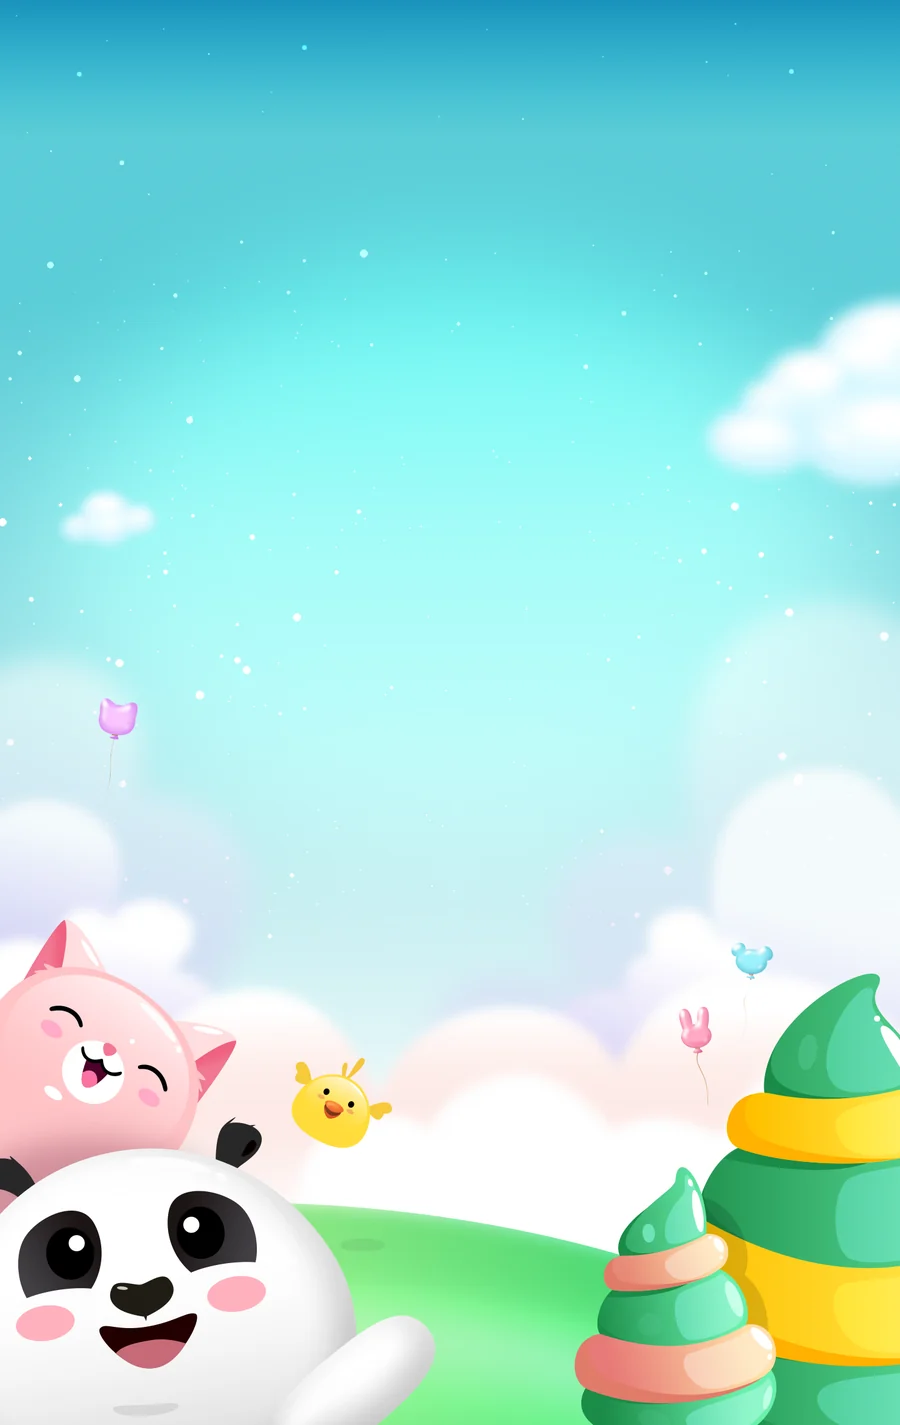
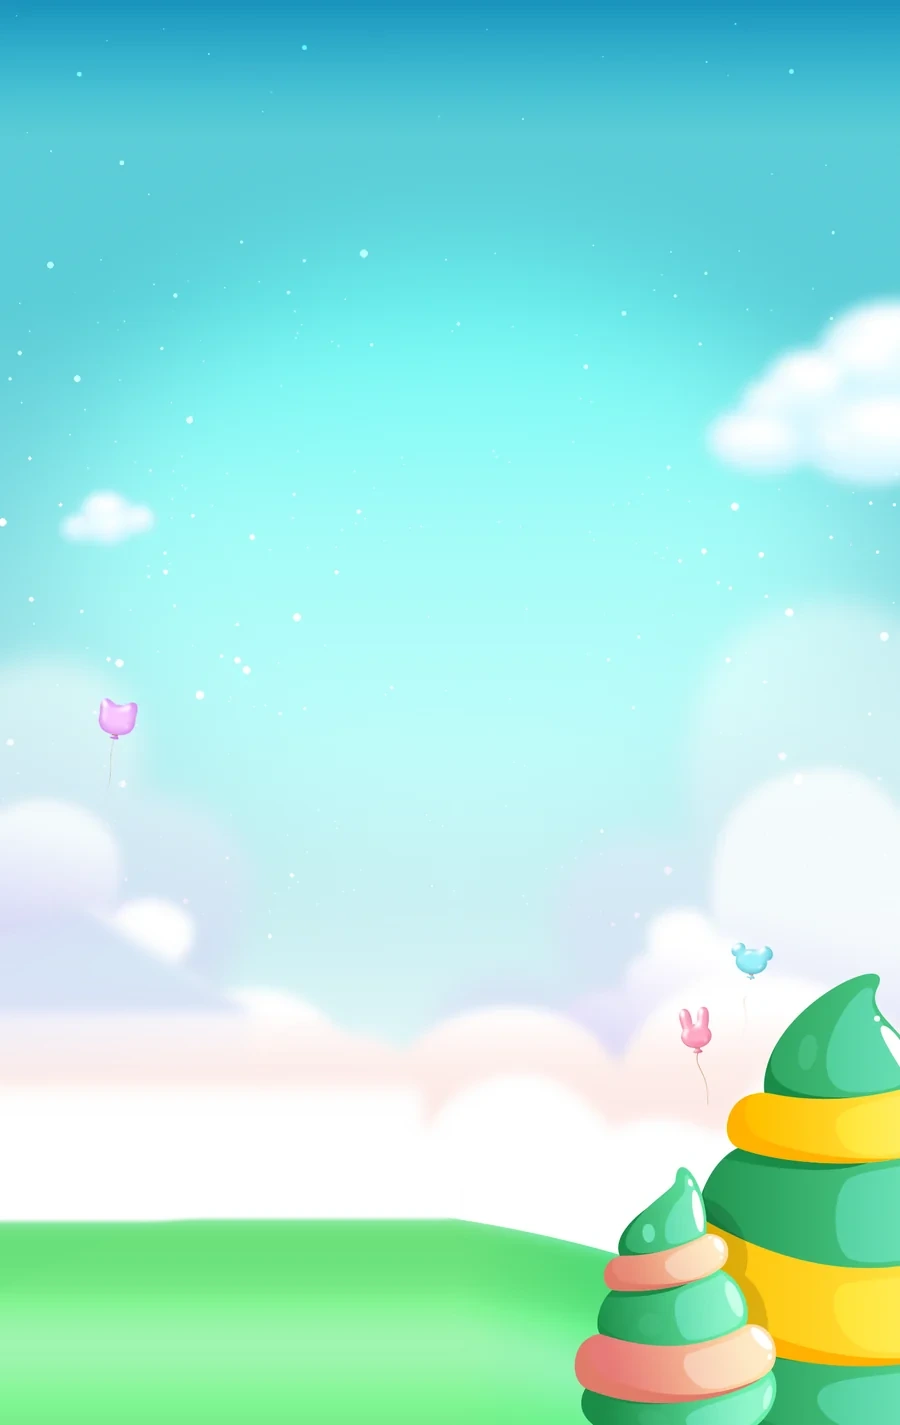
feat(home): remove foreign animals from the home art, add Map button, back button top-left
- home-bg.webp: paint out the pink cat, panda and chick (not characters of this game)
  and continue the clouds / grass hill behind them; trees and balloons are untouched.
- Home: new "Map" button under Play that opens the stage map; the Settings / Missions /
  Shop bubbles move down to make room for it.
- Stage (levels) screen: Back button moves from the bottom footer to the top-left
  of the top bar, like the map and game screens.
- Top bars are always laid out left-to-right so Back is top-left in the fa (RTL)
  edition too; the back arrow is no longer mirrored in RTL.

Changed region(s): [[0.0, 0.6175, 0.4978, 1.0], [0.4044, 0.7102, 0.4356, 0.7411]]

diff --git a/src/screens/Home.jsx b/src/screens/Home.jsx
@@ -10,13 +10,20 @@ import { missionDone } from '../game/missions.js';
 
 const W = 1440;
 const H = 2280;
+// the three round buttons sit lower than in the mockup to make room for the Map button under Play
+const LOWER = { 'h-settings': 230, 'h-missions': 230, 'h-shop': 230 };
+const MAP_BTN = [541, 1372, 901, 1523];
 const pos = (name) => {
   const [x0, y0, x1, y1] = M[name];
+  const dy = LOWER[name] || 0;
+  return pos2(x0, y0 + dy, x1, y1 + dy);
+};
+const pos2 = (x0, y0, x1, y1) => {
   return { left: `${(x0 / W) * 100}%`, top: `${(y0 / H) * 100}%`, width: `${((x1 - x0) / W) * 100}%`, height: `${((y1 - y0) / H) * 100}%` };
 };
 
 /** Home (v5 mockup 01): the PSD scene, a big round Play button and Settings / Missions / Shop bubbles. */
-export default function Home({ onPlay, onCoins, onShop, onSettings, onMissions }) {
+export default function Home({ onPlay, onMap, onCoins, onShop, onSettings, onMissions }) {
   const t = useT();
   const save = useSave();
   const go = (fn) => () => {
@@ -38,6 +45,15 @@ export default function Home({ onPlay, onCoins, onShop, onSettings, onMissions }
           <Logotype className="bob" />
         </div>
         {btn('h-play', onPlay, t('play'), 'h5play')}
+        <button
+          className="h5btn h5map"
+          style={pos2(...MAP_BTN)}
+          onClick={go(onMap)}
+          aria-label={t('map')}
+        >
+          <img src={`${V5_ART}btn-orange.webp`} alt="" draggable="false" />
+          <span>{t('map')}</span>
+        </button>
         {btn('h-settings', onSettings, t('settings'))}
         {btn('h-missions', onMissions, t('missions'))}
         {btn('h-shop', onShop, t('shop'))}

diff --git a/src/styles.css b/src/styles.css
@@ -66,7 +66,9 @@ button:disabled { opacity: 0.5; cursor: default; }
 .back-btn:active { transform: translateY(3px) scale(0.95); }
 .back-btn img { display: block; width: 100%; height: 100%; }
 .back-btn svg { position: absolute; inset: 0; margin: auto; width: 56%; height: 56%; fill: none; stroke: #fff; stroke-width: 3.6; stroke-linecap: round; stroke-linejoin: round; filter: drop-shadow(0 2px 0 rgba(170, 70, 0, 0.55)); }
-[dir='rtl'] .back-btn svg { transform: scaleX(-1); }
+/* the back button is always the top-left one, also in the RTL (fa) edition */
+.topbar { direction: ltr; }
+[dir='rtl'] .topbar > * { direction: rtl; }
 
 /* ---- top bar ---- */
 .topbar { display: flex; align-items: center; justify-content: space-between; gap: 8px; min-height: 54px; color: var(--ink); }
@@ -346,6 +348,8 @@ button:disabled { opacity: 0.5; cursor: default; }
 .h5btn { background: none; padding: 0; filter: drop-shadow(0 calc(100cqw * 0.006) 4px rgba(10, 70, 90, 0.35)); transition: transform 0.08s; }
 .h5btn:active { transform: scale(0.94); }
 .h5btn img { pointer-events: none; }
+.h5map { container-type: inline-size; }
+.h5map span { position: absolute; inset: 0; display: grid; place-items: center; padding-bottom: 3%; font-family: var(--font-display); font-size: 30cqw; line-height: 1; color: #fff; -webkit-text-stroke: 0.05em #b84a10; paint-order: stroke fill; text-shadow: 0 0.05em 0 #b84a10; pointer-events: none; }
 .h5play { animation: h5pulse 1.6s ease-in-out infinite; }
 @keyframes h5pulse { 50% { transform: scale(1.045); } }
 .home5-logo { display: grid; place-items: center; }

diff --git a/src/screens/Stage.jsx b/src/screens/Stage.jsx
@@ -68,6 +68,7 @@ export default function Stage({ stageId, onBack, onPick, onShop, onStage }) {
   return (
     <main className="screen levels">
       <header className="topbar">
+        <BackButton onClick={onBack} label={t('back')} />
         <span className="chip small-chip">
           <img className="chip-star" src={`${MAP_ART}ui/star-gold.webp`} alt="" draggable="false" /> {t.n(got)}/{t.n(STAGE_SIZE * 3)}
         </span>
@@ -131,10 +132,6 @@ export default function Stage({ stageId, onBack, onPick, onShop, onStage }) {
           })}
         </div>
       </div>
-
-      <footer className="levels-foot">
-        <BackButton onClick={onBack} label={t('back')} />
-      </footer>
     </main>
   );
 }

diff --git a/src/App.jsx b/src/App.jsx
@@ -112,6 +112,7 @@ export default function App() {
       {screen.name === 'home' && (
         <Home
           onPlay={() => replace('game', { level: nextLevel, stage: stageOf(nextLevel) })}
+          onMap={() => replace('map')}
           onCoins={() => go('coins')}
           onMissions={() => go('missions')}
           onShop={() => go('shop')}
